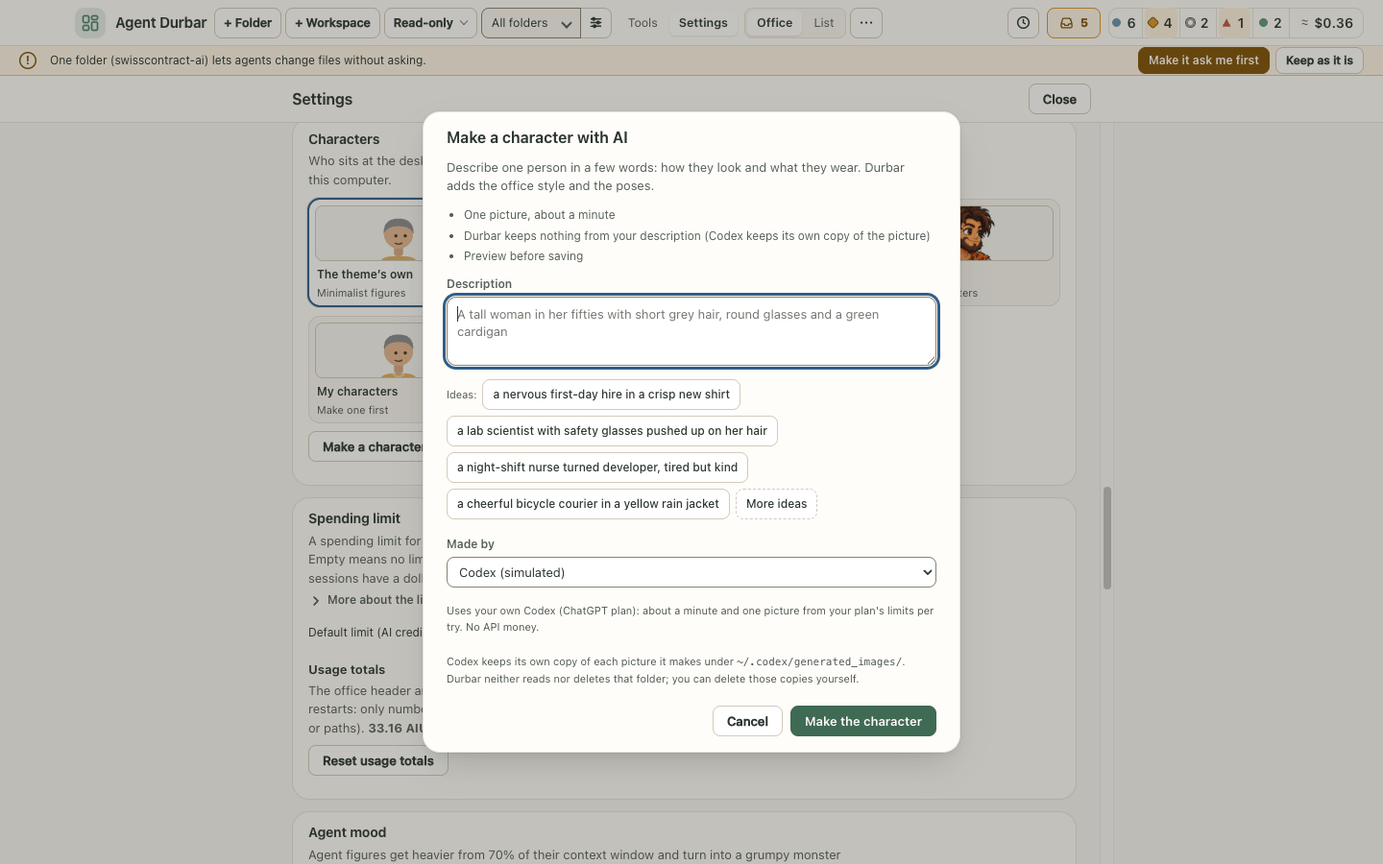
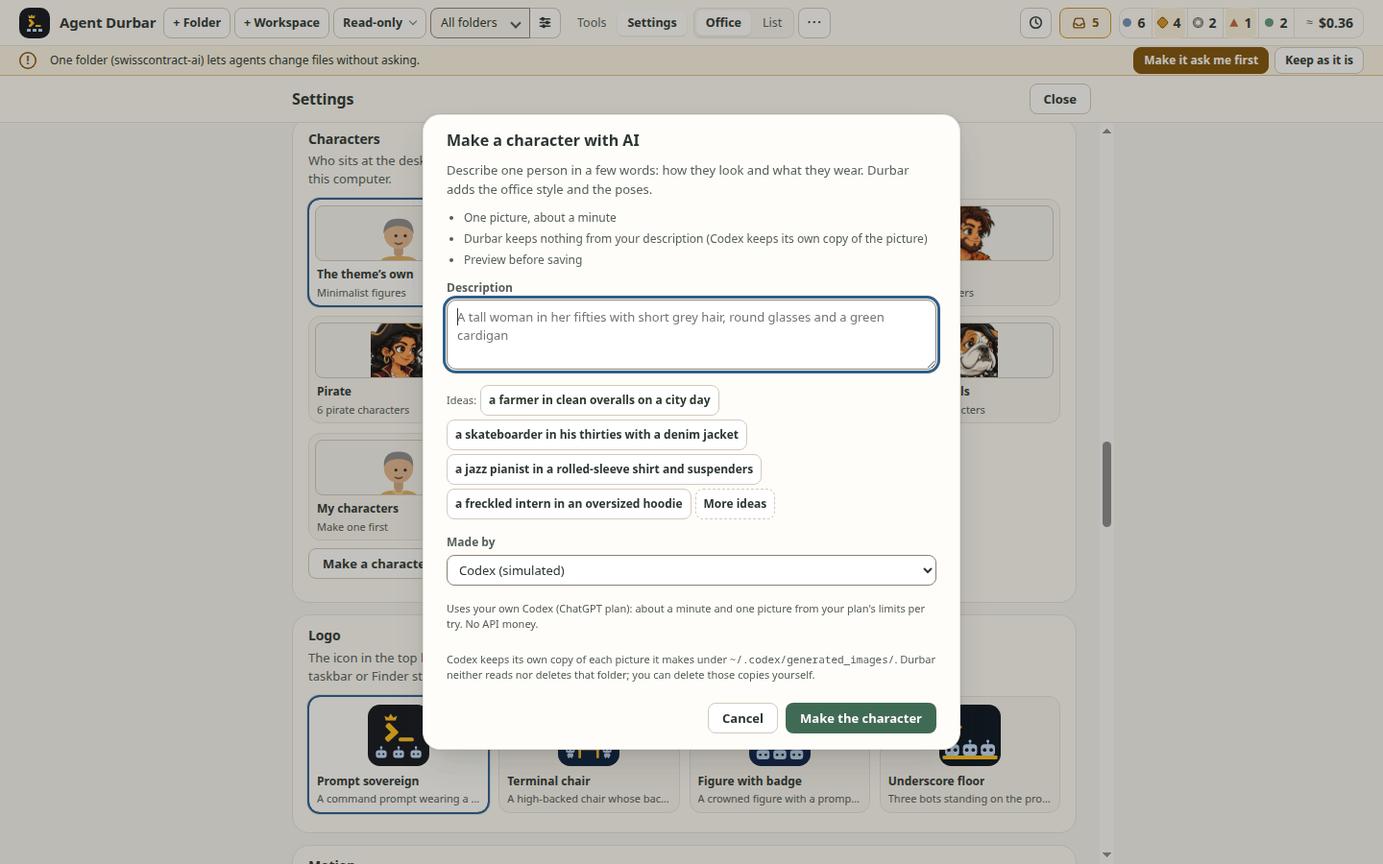
096: fixes after merging #956 and main: openFolders and fallOwn restored, ratchets met by the scale, idea chips wrap, CSP pin, docs pictures retaken and two linked, drivers follow main

diff --git a/src/renderer/app.js b/src/renderer/app.js
@@ -9206,6 +9206,7 @@ if(bridge){
     charactersChosen:()=>CHARS_CHOSEN, /* spec 096: the stored value, which a stored `mine` with no character does not draw */
     own:{load:ownLoad,changed:async()=>{await ownLoad();ownApply();},list:()=>OWN_STATE.list,urlsOf:id=>OWN_STATE.urls.get(id),pins:()=>OWN_STATE.pins,setPins:p=>{OWN_STATE.pins=p&&typeof p==='object'?p:{};},keyOf:ownKeyOf,screenClosed:()=>{ownRelease();}},
     /* FR-042: the folders with a session open now, as main counts them (spec 096 FR-031) */
+    openFolders:()=>ROOMS.filter(r=>agents.some(x=>!x.parent&&x.room===r.id&&x.info)).map(r=>({key:folderKeyOf(r),name:r.name})),
     agents:()=>LIVE.agents.filter(x=>x.live&&!x.parent).map(x=>({id:x.id,name:x.name,model:x.info&&x.info.model,adapterId:x.info&&x.info.adapterId,room:(ROOMS.find(r=>r.id===x.room)||{}).name||''})),
     staticLimit:a=>{const m=modelsFor(a.info&&a.info.adapterId).find(x=>x.id===((a.info&&a.info.model)||a.model||'auto'));return (m&&m.contextWindow)||0;},
     /* spec 058 FR-082: a running chat for Settings' live MCP list: the live agent (state, grants, remote: the Restart session questions)
@@ -9289,7 +9290,7 @@ const settleNow=()=>{if(!agentsListed||!window.__durbarSimReplayed||baselineQueu
 /* simulator drivers load with simfreeze=1: the desk glow then holds still (FR-178: the geometry and screenshot checks measure boxes, so no zoom may be mid-way); the unread driver opts back in with hlmotion=1 to test the motion itself */
 if(SIM&&qs.get('simfreeze')==='1'&&qs.get('hlmotion')!=='1')document.documentElement.classList.add('hl-still');
 if(SIM)window.__durbarSimUi={afPasses:()=>AF_PASSES,railPlans:()=>{renderStrip();return faceMemoPlans;}, /* issue 1193: room plans one rail render worked out */ops:()=>({...OPS}),agents:()=>agents,scene:(a,mini,c)=>scene(a,mini,c), /* a drawn scene's markup, for the drivers (FR-192: the SMIL wave) */cv:{mark:cvMark,release:cvRelease,drop:cvDrop,openPanel,setDensity},setLive:setLiveOn,setOfficeView,needsCount:()=>needsMeOrder().length,clearDetail:id=>{const c=byId(id)&&pendingCardOf(byId(id));if(!c)return false;c.querySelectorAll(':scope > details.pdiff').forEach(x=>x.remove());scheduleRender();return true;},addDetail:id=>{const c=byId(id)&&pendingCardOf(byId(id));if(!c)return false;const d=document.createElement('details');d.className='pdiff';d.innerHTML='<summary>Show the change (+1 \u22121)</summary><pre>- a\n+ b</pre>';c.insertBefore(d,c.querySelector(':scope > .note-actions'));scheduleRender();return true;},requestText:s=>{const n=document.createElement('div');n.className='note elicit';n.textContent=String(s);return requestText(n);},setSerious:v=>{SERIOUS=!!v;return SERIOUS;}, setMotion:v=>{MOTION=!!v;markMotion();return MOTION;}, /* spec 097 (the moments driver): a change in the card, the card text's masking, Serious mode */unread:{mark:id=>UNREAD.complete(id,false)==='marked',read:id=>markRead(byId(id))}, /* spec 097 (the moments driver): the New reply mark and Mark as read, as the app sets them */order:{get:()=>ORDER,saved:()=>bridge.getOrder?bridge.getOrder():null,reset:resetOrder,path:id=>(ROOMS.find(r=>'room:'+r.id===id)||{}).path||''}, /* issue 677 (check 033-order): the order held and saved, Reset, a room's key */
-  toast:(s,act)=>{const t=act?toastAction(esc(String(s)),String(act),()=>{},8000):toast(esc(String(s)),8000);return !!t;}, /* spec 097 FR-113: a toast for the world-chrome driver (simulator only) */visitsSettled:()=>VISITS.settled(), /* spec 097 FR-186: no visit is about to start or end on the wall clock (check-office-ops-real reads a settled lobby) */realLayout:()=>RO_LAST, /* spec 097: the last Real office layout (check-office-overlap's Real office variant) */slips:()=>realSlips(), /* spec 097: what the world draws as slips (the moments driver; simulator only) */uncrowd:()=>{agents.forEach(x=>VISITS.unpin(x.id));scheduleRender();return true;},crowd:(pid,n,from)=>{const a=agents.filter(x=>!x.parent).slice(from||0,(from||0)+n);a.forEach(x=>VISITS.pin(x.id,pid,'test'));scheduleRender();return a.length;}, /* spec 097: n main agents stand at a place (a "+N" crowd for the driver; simulator only) */crew:{own:()=>({chosen:CHARS_CHOSEN,pins:{...OWN_STATE.pins},list:OWN_STATE.list.map(c=>c.id),entries:OWN_STATE.list.filter(c=>OWN_STATE.urls.has(c.id)).map(c=>({id:c.id,name:c.name,face:c.face,urls:OWN_STATE.urls.get(c.id)})),urls:[...OWN_STATE.urls.keys()],registered:CREW.idsFor('mine')}),preloadOwn:id=>{crewPreloadIds([id]);return true;},state:()=>({map:{...CREW_MAP},help:{...CREW_HELP},bad:[...CREW_BAD],hasModule:!!CREW}),renderAll:()=>{renderAll();return true;},probe:()=>{try{crewPreload();syncCrew();return {ok:true,of:agents.map(x=>crewOf(x)).filter(Boolean).length};}catch(e){return {ok:false,err:String(e&&e.message)};}},openInbox:()=>{openInbox();return true;},closeInbox:()=>{closeInbox();return true;},openPanel:id=>{openPanel(id);return true;},fall:c=>{const f0=CREW.file;CREW.file=(i,p)=>i===c?'crew/art/gone.webp':f0(i,p);crewLoaded.clear();crewPreload();CREW.file=f0;return true;}}, /* spec 077 (check-crew): the character map, a render, and one character's pictures failing to load */
+  toast:(s,act)=>{const t=act?toastAction(esc(String(s)),String(act),()=>{},8000):toast(esc(String(s)),8000);return !!t;}, /* spec 097 FR-113: a toast for the world-chrome driver (simulator only) */visitsSettled:()=>VISITS.settled(), /* spec 097 FR-186: no visit is about to start or end on the wall clock (check-office-ops-real reads a settled lobby) */realLayout:()=>RO_LAST, /* spec 097: the last Real office layout (check-office-overlap's Real office variant) */slips:()=>realSlips(), /* spec 097: what the world draws as slips (the moments driver; simulator only) */uncrowd:()=>{agents.forEach(x=>VISITS.unpin(x.id));scheduleRender();return true;},crowd:(pid,n,from)=>{const a=agents.filter(x=>!x.parent).slice(from||0,(from||0)+n);a.forEach(x=>VISITS.pin(x.id,pid,'test'));scheduleRender();return a.length;}, /* spec 097: n main agents stand at a place (a "+N" crowd for the driver; simulator only) */crew:{own:()=>({chosen:CHARS_CHOSEN,pins:{...OWN_STATE.pins},list:OWN_STATE.list.map(c=>c.id),entries:OWN_STATE.list.filter(c=>OWN_STATE.urls.has(c.id)).map(c=>({id:c.id,name:c.name,face:c.face,urls:OWN_STATE.urls.get(c.id)})),urls:[...OWN_STATE.urls.keys()],registered:CREW.idsFor('mine')}),preloadOwn:id=>{crewPreloadIds([id]);return true;},fallOwn:id=>{const u=OWN_STATE.urls.get(id);if(!u)return false;URL.revokeObjectURL(u.working);crewPreloadIds([id]);return true;},state:()=>({map:{...CREW_MAP},help:{...CREW_HELP},bad:[...CREW_BAD],hasModule:!!CREW}),renderAll:()=>{renderAll();return true;},probe:()=>{try{crewPreload();syncCrew();return {ok:true,of:agents.map(x=>crewOf(x)).filter(Boolean).length};}catch(e){return {ok:false,err:String(e&&e.message)};}},openInbox:()=>{openInbox();return true;},closeInbox:()=>{closeInbox();return true;},openPanel:id=>{openPanel(id);return true;},fall:c=>{const f0=CREW.file;CREW.file=(i,p)=>i===c?'crew/art/gone.webp':f0(i,p);crewLoaded.clear();crewPreload();CREW.file=f0;return true;}}, /* spec 077 (check-crew): the character map, a render, and one character's pictures failing to load */
   readAll:(quiet)=>{const n=UNREAD.size;UNREAD.ids().forEach(id=>{UNREAD.read(id);UNREAD_AT.delete(id);});if(!quiet)scheduleRender();return n;},notes:{all:()=>[...NT.by.values()].map(x=>x.notes||[]).flat(),boxUsable:()=>boxUsable(),saveMsg:btn=>{const a=byId(ui.selected);return notesSaveMsg(a,msgInfo(btn),btn);},noCommands:()=>{const x=agents.find(q=>q.live&&!q.parent&&!slashSupported(q));return x?x.name:'';},selNow:()=>{showSelButton();const b=document.getElementById('ntSelBtn');return !!b&&!b.hidden;},open:()=>openNotes(byId(ui.selected)),close:()=>closeNotes(false),search:q=>{const f=$('ntSearch');if(!f)return false;f.value=q;f.dispatchEvent(new Event('input'));return true;},marks:{clear:()=>{document.querySelectorAll('#chat .nt-mark').forEach(x=>x.remove());document.querySelectorAll('#chat .bubble').forEach(b=>{b._nd=undefined;});return true;},run:()=>notesMarkAll(byId(ui.selected))},change:(note,patch)=>notesChange(byId(ui.selected),note,patch),rename:note=>renameNote(byId(ui.selected),note,null),plant:n=>{const a=byId(ui.selected),st=a&&notesOf(a);if(!st||!st.ok)return false;st.notes.push(n);notesPaint();if(slashUi)slashUpdate();return true;}}, /* spec 083: the check-notes driver reads the window's notes and takes the paths a click cannot */
   sizingLounges:()=>lastSizing.reduce((n,m)=>n+(m.rolled||[]).length,0), sizingMains:()=>lastSizing.reduce((n,m)=>n+m.mains.length,0), /* FR-181: the desks it is sized for (a pill does not reshape the cards) */ /* spec 001 FR-180: the finished agents the office is sized for */
   hxOff:(off)=>{HX_OFF=!!off;layoutKey='';scheduleRender();return HX_OFF;},renamePrevRow,settleNow,bridge:()=>bridge,render:()=>{layoutKey='';scheduleRender();},loungeTurn,quietHeads:(parts)=>{SIM_QUIET_HEADS=new Set(Array.isArray(parts)?parts:[]);},paint:()=>scheduleRender(),emit:onLiveEvent,

diff --git a/scripts/check-charmaker.js b/scripts/check-charmaker.js
@@ -96,7 +96,7 @@ module.exports = async (ctx) => {
     await openMaker();
     assert.strictEqual(await js(`document.getElementById('scrDlgT').textContent`), 'Make a character with AI');
     assert.strictEqual(await js(`document.getElementById('cmDesc').maxLength`), 300, `${tag}: at most 300 characters`);
-    assert.strictEqual(await js(`document.querySelectorAll('#cmIdeas .ai-idea').length`), 4, `${tag}: 4 ideas`);
+    assert.strictEqual(await js(`document.querySelectorAll('#cmIdeas [data-idea]').length`), 4, `${tag}: 4 ideas`);
     assert.deepStrictEqual(await js(`[...document.getElementById('cmKind').options].map(o=>o.value)`), ['codex'], `${tag}: Made by lists only apps with imageGen, here Codex of the mixed roster`);
     assert.strictEqual(await js(`document.getElementById('cmCost').textContent`), COST_CHATGPT, `${tag}: the cost line (FR-034: "No API money" for chatgpt)`);
     assert.deepStrictEqual(await js(`[...document.querySelectorAll('#cmPoints li')].map(l=>l.textContent)`), ['One picture, about a minute', 'Durbar keeps nothing from your description (Codex keeps its own copy of the picture)', 'Preview before saving'], `${tag}: the points (T041b)`);
@@ -105,10 +105,10 @@ module.exports = async (ctx) => {
     assert.ok(f.text.includes('generated_images'), `${tag}: the copies line is on screen`);
     await H.shot(path.join(OUT, `096-charmaker-dialog-${tag}.png`), { prep: 'mouse' });
     // More ideas draws others; a chip fills the box
-    const ideas0 = await js(`[...document.querySelectorAll('#cmIdeas .ai-idea')].map(b=>b.textContent).join('|')`);
-    for (let i = 0; i < 8; i++) { await js(`document.getElementById('cmMore').click()`); if ((await js(`[...document.querySelectorAll('#cmIdeas .ai-idea')].map(b=>b.textContent).join('|')`)) !== ideas0) break; }
-    assert.notStrictEqual(await js(`[...document.querySelectorAll('#cmIdeas .ai-idea')].map(b=>b.textContent).join('|')`), ideas0, `${tag}: More ideas changes them`);
-    await js(`document.querySelector('#cmIdeas .ai-idea').click()`);
+    const ideas0 = await js(`[...document.querySelectorAll('#cmIdeas [data-idea]')].map(b=>b.textContent).join('|')`);
+    for (let i = 0; i < 8; i++) { await js(`document.getElementById('cmMore').click()`); if ((await js(`[...document.querySelectorAll('#cmIdeas [data-idea]')].map(b=>b.textContent).join('|')`)) !== ideas0) break; }
+    assert.notStrictEqual(await js(`[...document.querySelectorAll('#cmIdeas [data-idea]')].map(b=>b.textContent).join('|')`), ideas0, `${tag}: More ideas changes them`);
+    await js(`document.querySelector('#cmIdeas [data-idea]').click()`);
     assert.ok((await js(`document.getElementById('cmDesc').value`)).length > 3, `${tag}: an idea fills the description`);
     // too short: says so, starts nothing
     await describe('ab');
@@ -500,7 +500,7 @@ module.exports = async (ctx) => {
   await js(`document.querySelector('#chList [data-characters="minimalist"]').click()`);
   await need(`window.THEME.sceneKit()==='office'`, 'Minimalist');
   await closeSettings();
-  assert.strictEqual(await js(`document.querySelectorAll('#stage image.crew-pic').length`), 0, 'Minimalist draws no portraits: the pin waits');
+  await need(`document.querySelectorAll('#stage image.crew-pic').length===0`, 'Minimalist draws no portraits: the pin waits', 4000); /* the office repaints on the next frame since main's incremental render */
   assert.deepStrictEqual(Object.values(await js(`window.__durbarSimUi.crew.own().pins`)), [target.id], 'and it stays');
   await need(`window.__durbarSimUi.crew.own().urls.length===0`, 'nothing shows them: the URLs are given back (FR-043)');
   await openSettings();
@@ -610,7 +610,7 @@ module.exports = async (ctx) => {
   assert.strictEqual(await js(`document.querySelector('#chList [data-characters="mine"]').getAttribute('aria-pressed')`), 'true', 'My characters stays pressed');
   assert.ok((await js(`document.querySelector('#chList [data-characters="mine"]').textContent`)).includes('Make one first'), 'and says Make one first');
   await closeSettings();
-  assert.strictEqual(await js(`document.querySelectorAll('#stage image.crew-pic').length`), 0, 'no portrait is left');
+  await need(`document.querySelectorAll('#stage image.crew-pic').length===0`, 'no portrait is left', 4000);
   // a new one is used once made
   await openMaker();
   await describe('a new hire');

diff --git a/src/renderer/screens.css b/src/renderer/screens.css
@@ -514,23 +514,26 @@ body.has-bridge #topBtns{display:flex}
 .ns-done{margin:10px 0 0}
 .ns-done>summary{cursor:pointer;margin:0 0 6px;padding:4px 2px;font-size:12px;font-weight:700;letter-spacing:.03em;text-transform:uppercase;color:var(--ink-2);border-radius:6px}
 .ns-done>summary:focus-visible{outline:2px solid var(--focus);outline-offset:1px}
-/* spec 096 FR-041, FR-042: the character maker's preview and My characters' rows */
-.dlg.cm-preview .cm-frames{display:flex;flex-wrap:wrap;gap:10px;align-items:flex-end;margin:2px 0 8px}
-.cm-frame{margin:0;display:flex;flex-direction:column;align-items:center;gap:4px;min-width:0}
-.cm-frame figcaption{font-size:11.5px;color:var(--ink-2,inherit)}
-.cm-pic{display:block;width:88px;height:88px;border:1px solid var(--line-2);border-radius:8px;background:var(--bg);overflow:hidden}
+/* spec 096 FR-041, FR-042: the character maker's preview and My characters' rows (spacing, sizes and radii from the scale, spec 070 FR-054) */
+.dlg.cm-preview .cm-frames{display:flex;flex-wrap:wrap;gap:var(--s-2);align-items:flex-end;margin:var(--s-1) 0 var(--s-2)}
+.cm-frame{margin:0;display:flex;flex-direction:column;align-items:center;gap:var(--s-1);min-width:0}
+.cm-frame figcaption{font-size:var(--t4-size);color:var(--ink-2,inherit)}
+.cm-pic{display:block;width:88px;height:88px;border:1px solid var(--line-2);border-radius:var(--r-md);background:var(--bg);overflow:hidden}
 .cm-pic img{display:block;width:88px;height:88px}
-.cm-round{display:block;width:64px;height:64px;border-radius:50%;border:1px solid var(--line-2);background:var(--bg);overflow:hidden;margin-top:24px}
+.cm-round{display:block;width:64px;height:64px;border-radius:50%;border:1px solid var(--line-2);background:var(--bg);overflow:hidden;margin-top:var(--s-5)}
 .cm-round svg{display:block}
-.dlg .derr#cmSaveErr{margin:6px 0 0}
-.chm-list{list-style:none;margin:6px 0 0;padding:0;display:flex;flex-direction:column;gap:6px}
-.chm-row{display:flex;align-items:center;gap:10px;padding:6px 8px;border:1px solid var(--line);border-radius:10px;background:var(--surface-2);min-width:0}
-.chm-pic{flex:none;width:44px;height:44px;border-radius:8px;background:var(--bg);overflow:hidden}
+.dlg .derr#cmSaveErr{margin:var(--s-1) 0 0}
+.chm-list{list-style:none;margin:var(--s-1) 0 0;padding:0;display:flex;flex-direction:column;gap:var(--s-1)}
+.chm-row{display:flex;align-items:center;gap:var(--s-2);padding:var(--s-1) var(--s-2);border:1px solid var(--line);border-radius:var(--r-md);background:var(--surface-2);min-width:0}
+.chm-pic{flex:none;width:44px;height:44px;border-radius:var(--r-md);background:var(--bg);overflow:hidden}
 .chm-pic img{display:block;width:44px;height:44px}
-.chm-tx{flex:1 1 140px;min-width:0;display:flex;flex-direction:column;gap:1px}
+.chm-tx{flex:1 1 140px;min-width:0;display:flex;flex-direction:column;gap:0}
 .chm-name,.chm-sub{overflow:hidden;text-overflow:ellipsis;white-space:nowrap}
-.chm-sub{font-size:11.5px;color:var(--ink-2,inherit)}
-.chm-act{flex:none;display:flex;flex-wrap:wrap;gap:6px;justify-content:flex-end}
+.chm-sub{font-size:var(--t4-size);color:var(--ink-2,inherit)}
+.chm-act{flex:none;display:flex;flex-wrap:wrap;gap:var(--s-1);justify-content:flex-end}
+.ai-ideas{display:flex;flex-wrap:wrap;align-items:center;gap:var(--s-1);margin:var(--s-1) 0}
+.ai-ideas .btn{height:auto;min-height:var(--h-ctl);padding:var(--s-1) var(--s-2);font-size:var(--t4-size);white-space:normal;text-align:start;max-width:100%} /* a long idea wraps inside the dialog instead of running past it */
+.ai-ideas .btn:last-child{border-style:dashed}
 .thpick[aria-disabled=true]{cursor:default}
 .orgrows{list-style:none;margin:0;padding:0}.orgrow{padding:6px 0;border-top:1px solid var(--line);display:flex;flex-direction:column;align-items:flex-start;gap:2px;font-size:var(--t3-size,12px)}.orgrow small{font-size:11px;color:var(--muted,inherit);overflow-wrap:anywhere}.orgrow small.warn{color:var(--amber-ink)}.orgrow ul{margin:2px 0 0;padding-left:18px}
 

diff --git a/src/renderer/screens.js b/src/renderer/screens.js
@@ -642,9 +642,9 @@
   }
   /* spec 096 T040 (spec 021 FR-031): the parts of any "make one with AI" dialog, neutral on purpose: they know no theme, character or world (spec 102 reuses them). The ids are the caller's. */
   const pickIdeas=(list,n)=>{const f=window.exports&&window.exports.pickFrom;return f?f(list,n):list.slice(0,n);}; /* src/shared/ideas.ts, read at call time */
-  const ideaChipsHtml=(ideas,ids)=>ideas.length?`<div class="ai-ideas" id="${ids.box}"><span class="scr-note small">Ideas:</span>${pickIdeas(ideas,4).map((i)=>`<button class="btn ai-idea" type="button" data-idea="${esc(i)}">${esc(i)}</button>`).join('')}<button class="btn ai-more" type="button" id="${ids.more}" title="Show other ideas">More ideas</button></div>`:'';
+  const ideaChipsHtml=(ideas,ids)=>ideas.length?`<div class="ai-ideas" id="${ids.box}"><span class="scr-note small">Ideas:</span>${pickIdeas(ideas,4).map((i)=>`<button class="btn" type="button" data-idea="${esc(i)}">${esc(i)}</button>`).join('')}<button class="btn" type="button" id="${ids.more}" title="Show other ideas">More ideas</button></div>`:'';
   /* a chip fills the description box; More ideas draws four others */
-  const wireIdeaChips=(d,ideas,ids,box,onPick)=>d.addEventListener('click',(e)=>{const b=e.target.closest&&e.target.closest('.ai-idea');if(b){box.value=b.dataset.idea;onPick(box.value);focusIn(box);return;}
+  const wireIdeaChips=(d,ideas,ids,box,onPick)=>d.addEventListener('click',(e)=>{const b=e.target.closest&&e.target.closest("[data-idea]");if(b){box.value=b.dataset.idea;onPick(box.value);focusIn(box);return;}
     if(e.target.closest&&e.target.closest('#'+ids.more)){const el=d.querySelector('#'+ids.box);if(el)el.outerHTML=ideaChipsHtml(ideas,ids);}});
   /* the ready agent apps with one capability ([] when the list cannot be read), and the Made by picker over them */
   async function readyKinds(cap){if(!X.bridge.listAdapters)return [];try{return ((await X.bridge.listAdapters())||[]).filter((k)=>k&&k.state==='ready'&&k.capabilities&&k.capabilities[cap]);}catch(e){return [];}}

diff --git a/scripts/test-realoffice-assets.ts b/scripts/test-realoffice-assets.ts
@@ -334,7 +334,7 @@ if (fs.existsSync(path.join(ROOT, 'dist', 'renderer', 'index.html'))) {
 }
 const index = fs.readFileSync(path.join(ROOT, 'src', 'renderer', 'index.html'), 'utf8');
 const csp = /Content-Security-Policy" content="([^"]*)"/.exec(index);
-assert.strictEqual(csp && csp[1], "default-src 'none'; script-src 'self'; style-src 'self' 'unsafe-inline'; img-src 'self' data:;", 'the CSP is unchanged (FR-060)');
+assert.strictEqual(csp && csp[1], "default-src 'none'; script-src 'self'; style-src 'self' 'unsafe-inline'; img-src 'self' data: blob:;", 'the CSP is unchanged by spec 097 (FR-060); spec 096 FR-043 added blob: to img-src only (test:crew-assets pins it)');
 assert.ok(!/realoffice/.test(index), 'index.html does not load Real office (FR-061: only on first use)');
 console.log(`realoffice assets tests passed (${packs} world packs with their default sets, largest ${(biggest / 1024 / 1024).toFixed(2)} MB; the Photo office ${files.size} pictures, ${(total / 1024 / 1024).toFixed(2)} MB)`);
 process.exitCode = 0;

diff --git a/scripts/shots-docs.js b/scripts/shots-docs.js
@@ -55,7 +55,7 @@ const DOC_SHOTS = [
   { name: 'shots-030-handoff', files: ['handoff-review-1440x900.png'] },
   { name: 'shots-033', files: ['033-floors-on-1440x900.png'] },
   { name: 'shots-040-picker', files: ['040-theme-picker-1440x900.png'] }, // spec 040 FR-032: the theme picker, Export and Remove
-  { name: 'check-charmaker', files: ['096-charmaker-dialog-1440x900.png', '096-charmaker-preview-1440x900.png', '096-charmaker-settings-1440x900.png', '096-mycharacters-office-1440x900.png'] }, // spec 096 T047
+  { name: 'check-charmaker', files: ['096-charmaker-dialog-1440x900.png', '096-charmaker-settings-1440x900.png'] }, // spec 096 T047
   { name: 'shots-043-ai', files: ['043-ai-questionnaire-1440x900.png'] },
   { name: 'shots-043-manage', files: ['043-profile-delete-confirm-1440x900.png'] },
   { name: 'shots-043-editor', files: ['043-editor-new-asp-split-1440x900.png', '043-editor-split-clean-1440x900.png'] },

diff --git a/scripts/check-characters.js b/scripts/check-characters.js
@@ -191,7 +191,7 @@ module.exports = async (ctx) => {
   assert.ok(empty.text.includes('Make one first') && !empty.pic, `with nothing to draw it says so (${empty.text})`);
   await close();
   // spec 096 T044: the mine value, on any theme: the desks draw the saved characters, the theme stays, the preview is the newest one's working pose
-  for (const theme of ['retro', 'corporate']) {
+  for (const theme of ['retro', 'clean-office']) {
     await H.load({ w: 1280, h: 800, ready: 'fit', settle: false, query: { simmine: '2', theme } });
     await H.office(15);
     await openSettings();

diff --git a/docs/features.md b/docs/features.md
@@ -65,10 +65,8 @@ Where each feature works (Flat, Real office, worlds): [feature inventory](featur
 - **Custom agents** per session: `.github/agents` or `~/.copilot/agents` for Copilot, `.claude/agents` for Claude.
 - **My characters and the AI character maker** (spec 096): *Settings > Characters* has **My characters**, your own people at the desks, on top of any theme, and rows to rename, pin to a folder, export or delete each one. A pin dresses every session of that folder in that character, also under Cheeky or Prehistoric. **Make a character with AI…** is the maker: a description, a preview of the poses at desk size, and nothing kept until you save. `[KNOWN GAP]` No agent app makes pictures yet, so in the app today the dialog says it cannot make one; the pictures below come from the simulator's fake generator, not from an image model. While the sign-in kind cannot be told, each try will first ask "If Codex is signed in with an API key, OpenAI charges this picture. Make it?", Cancel focused. Codex keeps its own copy of each picture under `~/.codex/generated_images/`; Durbar neither reads nor deletes that folder, and keeps nothing from your description.
   ![The character maker on the simulator](screenshots/096-charmaker-dialog-1440x900.png)
-  ![The preview of a simulated character](screenshots/096-charmaker-preview-1440x900.png)
   ![My characters in Settings](screenshots/096-charmaker-settings-1440x900.png)
-  ![My characters at the desks, 15 agents](screenshots/096-mycharacters-office-1440x900.png)
-  The same four pictures at 1280x800 are in `docs/screenshots/`, not linked here so the site stays under its 8 MB budget (spec 050 FR-012).
+  The preview and the desks pictures (`096-charmaker-preview-*`, `096-mycharacters-office-*`) and all four at 1280x800 are in `docs/screenshots/`, not linked here so the site stays under its 8 MB budget (spec 050 FR-012).
 - **Agent Success Profiles (edit profile files):** *Settings > Agent Success Profiles (custom agents)* lists the profile files of your folders and your user folder; **Edit** in the Profile menu or **Open** in Settings shows a file in a large editor with **Edit | Split | Preview** (remembered on this computer), a front matter check, a live preview (the chat's safe Markdown: no scripts, no images, only web links) and **Save** (Ctrl+S / ⌘S). It warns before closing with unsaved changes and before overwriting a file changed elsewhere; **New Agent Success Profile…** opens a template in the editor, and nothing is written until you press **Save** (cancel or close at any step and no file is left): the default *Agent Success Profile* (like a job success profile: Role and goal, Scope and non-goals, Inputs and context to gather first, Working method, Quality bar and definition of done, Safety limits with two fixed lines (the session's permission mode decides; never handle secrets), Output format, When to ask the user) or a *Standard agent* (name, description, tools, model, then instructions); both start with read-only tools ([screenshot](screenshots/043-editor-new-asp-split-1440x900.png)). **Delete** (in the Profile menu beside **Edit**, and **Delete…** in Settings) removes a profile file you can write after a confirmation; every list shows a new, changed or deleted profile at once, also in the Profile menu of a running session ([screenshot](screenshots/043-profile-delete-confirm-1440x900.png)). **Create with AI…** writes an Agent Success Profile from a short description or an eight-question questionnaire (one question per section; the agent app is asked to think the role through, make every line checkable and mark what it assumed): one request to an installed agent app through the same no-tools, nothing-kept path as the AI theme maker (its cost is shown on the button first); Durbar checks the reply (all sections; only the read-only tools plus those you list under **Extra tools**, never a tool your text merely mentions, and the draft names every extra tool; HTML kept only as text) and opens it unsaved in Split view for you to review; one action sends at most one request, also if you cancel and try again while it runs ([screenshot](screenshots/043-ai-questionnaire-1440x900.png)). Changes apply to sessions started after saving; Codex has no profiles yet ([screenshot](screenshots/043-editor-split-clean-1440x900.png), [spec 043](../specs/043-custom-agents/spec.md) FR-010..FR-017).
 - **Open with** (chat header) opens the folder in an installed VS Code, VS Code Insiders or VSCodium, or in the system file manager (**Show in folder**). It opens the folder only: the conversation stays in Durbar. To hand it over, use **Continue in another app…** (More menu), where a second agent app is installed. A project folder that is a link opens at its real folder, with a note; something the file manager would run is selected, not opened; on Windows, an editor found only as a `.cmd` cannot open a folder whose name has a character `cmd.exe` could misread, and **Open in editor** then uses the next installed edition (screenshots: [1440x900](screenshots/009-openwith-1440x900.png), [1280x800](screenshots/009-openwith-1280x800.png)).
 - **Folder status:** in a chat, the folder chip also shows the git branch and how many files have uncommitted changes (`~/work/api · main · 3 changed`); click it for the list of changed files with their +/− lines and **Open in editor**. Read-only (Durbar never runs a git command that writes, and no command set in the folder's own git config, such as an fsmonitor hook, a filter or an external diff, runs). Submodules are not looked into: one whose commit moved counts as changed, but uncommitted work inside a submodule does not. Filters are never run either, so a touched file kept by git-lfs, git-crypt or another clean filter can show as changed here while `git status` says it is clean; nothing extra for a folder that is not a git repository ([screenshot](screenshots/063-folder-changes-1440x900.png)).

diff --git a/specs/096-ai-character-maker/spec.md b/specs/096-ai-character-maker/spec.md
@@ -508,3 +508,12 @@ These close gaps the spec's wording left while building phase 3. They are the **
 
 - **FR-011**: the hand list of look-alike brackets is replaced by a rule. After NFKC, `cleanDescription` removes `<`, `>` and, for non-ASCII characters only, every opening/closing bracket (`Ps`, `Pe`), initial/final quote (`Pi`, `Pf`), math symbol (`Sm`), modifier symbol (`Sk`), the Spacing Modifier Letters block (U+02B0..02FF), and the blocks Arrows (U+2190..21FF), Geometric Shapes (U+25A0..25FF), Dingbat arrows (U+2794, U+2798..27AF, U+27B1..27BE; the emoji ➕ ➖ ➗ ➰ ➿ stay), Misc Symbols and Arrows (U+2B00..2BFF), Geometric Shapes Extended triangles and pointers (U+1F780..1F7DF; the emoji circles and squares U+1F7E0..1F7EB and U+1F7F0 stay), Supplemental Arrows-C (U+1F800..1F8FF) and Canadian Syllabics (U+1400..167F). All other ASCII stays (`C++`, `a=b|c~d`, `^`; backticks still go, by their own rule), ordinary letters stay (CJK, kana, the prolonged sound mark ー, 々), as do ASCII `()[]{}`, the plain curly quotes and the okina/apostrophe letters U+02BB and U+02BC (letters in Hawaiian, Samoan and Tongan, not angle-shaped). Cost: other brackets, quotes and math signs, the emoji ➡ (U+27A1, an arrow) and Inuktitut (Canadian Syllabics) letters, are dropped from descriptions. Not covered: other `So` shapes outside those blocks that merely resemble an angle: `[KNOWN GAP]`.
 - **Test**: `test:chargen` checks that real text survives exactly (`C++ engineer`, `a=b|c~d`, `コーヒー好き`, `佐々木 々`, `Hawaiʻi`, curly quotes and ASCII brackets, Arabic, Hindi, a ZWJ emoji, `Straße café`, `✅ ❤ ✔`, `🟢 🟡 🟥 🟰`, `➕ ➗ ➰`, which lie outside the banned ranges; a mutant banning a whole block fails on this), checks the named forms `⧼⧽ ˂˃ ᐸᐳ ≪≫ ⋘⋙` and `<` + U+0338, and walks U+0000..U+10FFFF (surrogates skipped) in chunks: it fails on the first survivor that is an ASCII angle, a non-ASCII bracket/quote/math/modifier symbol, in a banned block, or outside an allow-list of classes. `[mutant]` stripping ASCII symbols, or dropping one class or block from the rule, fails on `real text survives exactly` or `named look-alike ... removed` or `walk of U+0000..U+10FFFF: ...`.
+
+## Changes 2026-11-08: phase 4 merged with the updated phase 3 and main (no FR or task number added)
+
+- **Source**: #956's head (which carries `main`: retired theme maker and Corporate, the flat look, global Motion, the removed cabins) merged into this branch. Kept from this phase: My characters in the list (last, nine values), the maker, pins, the folder list for pins, `characterGenerate`'s `confirmed` option.
+- **Dropped with main**: `aiTheme` and the theme try bar (the neutral helpers of T040 stay), `previewTheme`, `characterMotion`.
+- **Ratchets of main met without raising a baseline** (spec 070 FR-054): the maker's and My characters' rules use the spacing, size and radius scale; the idea chips are plain `btn` buttons found by `[data-idea]`, and a long idea wraps inside the dialog (`.ai-ideas .btn`).
+- **CSP pin**: `test:realoffice-assets` expects `blob:` in `img-src` (FR-043), as `test:crew-assets` does.
+- **Docs pictures**: only the dialog and Settings pictures at 1440x900 are linked (the site went over 8 MB with four); retaken after the merge. The preview, desks and all 1280x800 pictures in `docs/screenshots/` date from before it and are not linked.
+- **Driver**: `check-charmaker` waits up to 4 s for the office to repaint after Settings closes (the portraits were still there at the first look after the merge and gone a moment later; the cause was not traced); `check-characters` runs `mine` on Retro and Clean Office (Corporate is gone).

diff --git a/specs/096-ai-character-maker/tasks.md b/specs/096-ai-character-maker/tasks.md
@@ -57,7 +57,7 @@
 - [x] T044 [US2] Characters list: My characters value with preview, "Make one first" when empty; deleting the last character falls back with a toast. Test: `check-characters` gains the `mine` value; US2 scenario 4 [FR-040]
 - [x] T045 [US4] Manage rows: Rename, Pin to a folder…, Delete (confirm, pins removed and counted), Export… (`DURBAR_PICK`). Test: `check-charmaker` manage steps; `test:charstore` export [FR-042; US4]
 - [x] T046 Layout: `check:office` and `check:crew` with `OFFICE_CHARACTERS=mine`, 15 agents, 1440x900 and 1280x800. Test: both pass (SC-002)
-- [x] T047 Screenshots: `docs/screenshots/096-charmaker-*.png`, `096-mycharacters-office-*.png` at both sizes via `shots:docs` (`DOC_SHOTS`). Test: look at each picture
+- [x] T047 Screenshots: `docs/screenshots/096-charmaker-*.png`, `096-mycharacters-office-*.png` at both sizes via `shots:docs` (`DOC_SHOTS`). Test: look at each picture. Only the dialog and Settings pictures (1440x900) are linked in `docs/features.md` and kept by `shots:docs`: the site is at its 8 MB budget (2026-11-08); the other pictures stay in `docs/screenshots/`, unlinked
 
 ## Phase 5: Motion (PR 5)
 
